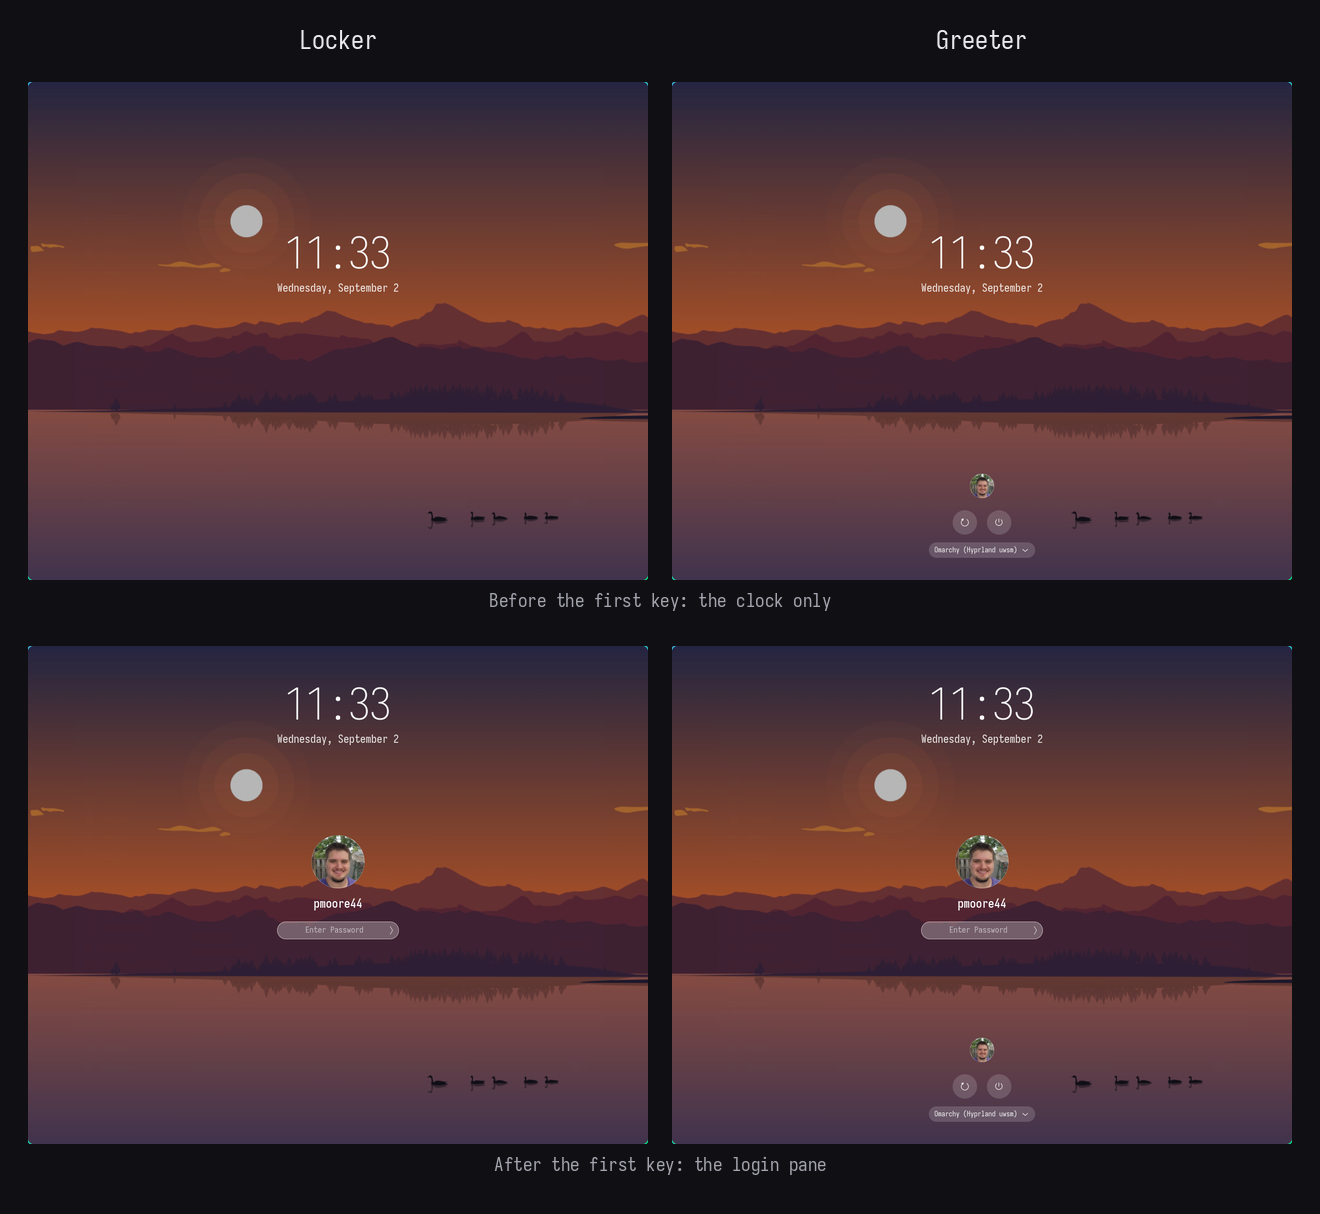
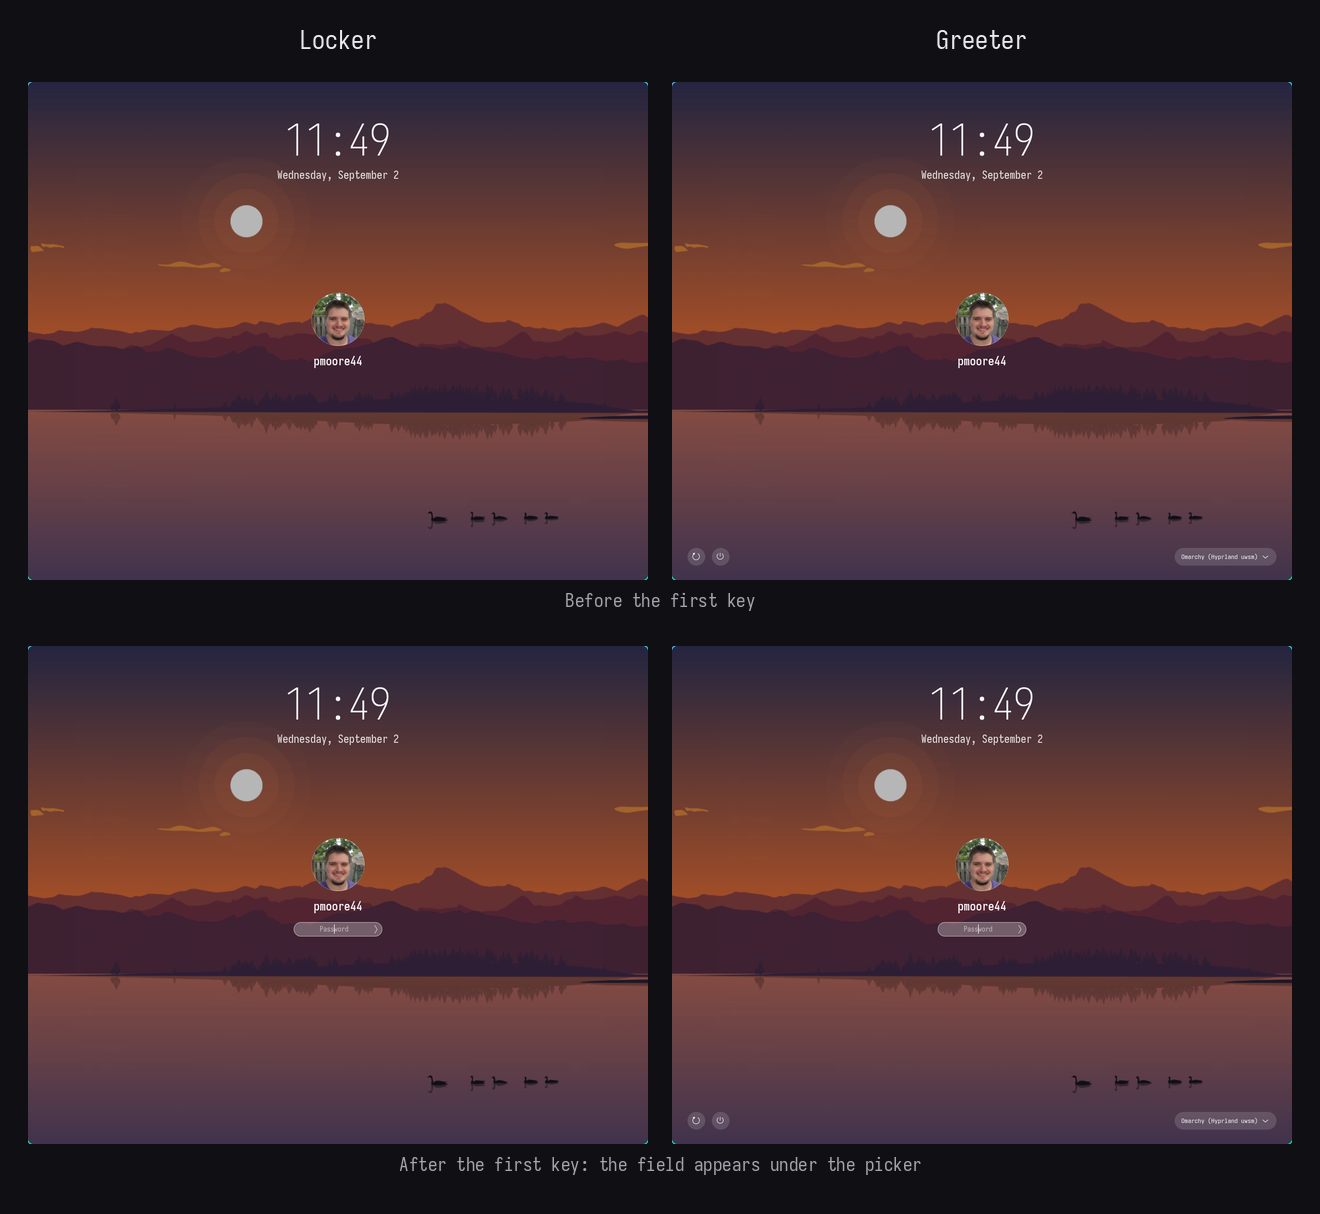
Move the pane to the macOS Sonoma layout
- The power buttons are 32 pixels now, and they sit at the bottom left. The
  session list sits at the bottom right, at the same height. A CenterBox
  holds the two ends.
- The password field is 116 pixels wide, about as wide as the avatar, and it
  reads Password.
- The field leaves the layout in the idle phase instead of turning
  transparent. The first key brings it back under the name, and the centre
  column then moves the picker up by half the height of the field.
- The picker stays on the screen in both phases, so the clock keeps its place
  at the top.
- A row of other users appears only when the computer has more than one.

docs/comparison.png shows the new layout in both phases.

Claude-Session: https://claude.ai/code/session_01PeT9ttCRnR2m712URu63QP

diff --git a/assets/style.css b/assets/style.css
@@ -26,11 +26,6 @@ popover {
  * the clock only, as macOS does. */
 .psldm-clock-column {
   margin-top: 56px;
-  transition: margin-top 340ms ease-out;
-}
-
-.psldm-clock-column.idle {
-  margin-top: 260px;
 }
 
 .psldm-clock {
@@ -40,14 +35,10 @@ popover {
   color: #ffffff;
 }
 
-/* The avatar, the name, and the field appear after the first key. */
+/* The picker stays on the screen. The field joins it after the first key,
+ * and the column then moves up a little. */
 .psldm-login {
   opacity: 1;
-  transition: opacity 240ms ease-out;
-}
-
-.psldm-login.idle {
-  opacity: 0;
 }
 
 .psldm-date {
@@ -74,19 +65,19 @@ popover {
 /* The capsule password field. The selector names the entry node as well as
  * the class, so that it wins over the theme. */
 entry.psldm-entry {
-  min-width: 200px;
-  min-height: 32px;
-  margin-top: 18px;
-  padding: 0 6px 0 14px;
+  min-width: 116px;
+  min-height: 26px;
+  margin-top: 14px;
+  padding: 0 4px 0 10px;
   border: none;
   outline: none;
-  border-radius: 16px;
+  border-radius: 13px;
   background-color: alpha(#ffffff, 0.20);
   background-image: none;
   box-shadow: inset 0 0 0 1px alpha(#ffffff, 0.30);
   color: #ffffff;
   caret-color: #ffffff;
-  font-size: 15px;
+  font-size: 13px;
 }
 
 entry.psldm-entry:focus,
@@ -124,11 +115,10 @@ entry.psldm-entry > image {
 
 /* The row of users, and the row of power buttons. */
 .psldm-users {
-  margin-bottom: 8px;
+  margin-top: 22px;
 }
 
-button.psldm-user-button,
-button.psldm-power-button {
+button.psldm-user-button {
   border: none;
   outline: none;
   border-radius: 22px;
@@ -141,25 +131,40 @@ button.psldm-power-button {
   color: #ffffff;
 }
 
+button.psldm-power-button {
+  border: none;
+  outline: none;
+  border-radius: 16px;
+  min-width: 32px;
+  min-height: 32px;
+  padding: 0;
+  background-color: alpha(#ffffff, 0.14);
+  background-image: none;
+  box-shadow: none;
+  color: #ffffff;
+  -gtk-icon-size: 15px;
+}
+
 button.psldm-user-button:hover,
 button.psldm-power-button:hover {
   background-color: alpha(#ffffff, 0.28);
 }
 
+/* The bottom bar: power on the left, sessions on the right. */
 .psldm-bottom {
-  margin-bottom: 40px;
+  margin: 0 28px 26px 28px;
 }
 
 dropdown.psldm-session > button {
-  background: alpha(#ffffff, 0.16);
+  background: alpha(#ffffff, 0.14);
   background-image: none;
   color: #ffffff;
-  border-radius: 14px;
+  border-radius: 16px;
   border: none;
   box-shadow: none;
-  min-height: 28px;
-  padding: 0 10px;
-  font-size: 13px;
+  min-height: 32px;
+  padding: 0 12px;
+  font-size: 12px;
 }
 
 /* The pane moves left and right one time after a failed attempt. */

diff --git a/crates/psldm-ui/src/pane.rs b/crates/psldm-ui/src/pane.rs
@@ -88,13 +88,20 @@ impl LoginPane {
         entry.set_input_purpose(gtk::InputPurpose::Password);
         entry.set_secondary_icon_name(Some("go-next-symbolic"));
         entry.set_secondary_icon_activatable(true);
-        entry.set_placeholder_text(Some("Enter Password"));
+        entry.set_placeholder_text(Some("Password"));
         gtk::prelude::EditableExt::set_alignment(&entry, 0.5);
         entry.set_max_width_chars(18);
 
         let hint = gtk::Label::new(None);
         hint.add_css_class("psldm-hint");
 
+        let users_row = gtk::Box::new(gtk::Orientation::Horizontal, 20);
+        users_row.set_halign(gtk::Align::Center);
+        users_row.add_css_class("psldm-users");
+
+        // The picker holds the avatar and the name. The field joins it when
+        // the user presses a key, and the whole column then moves up a
+        // little, because a centre box grows in both directions.
         let center = gtk::Box::new(gtk::Orientation::Vertical, 0);
         center.add_css_class("psldm-login");
         center.set_halign(gtk::Align::Center);
@@ -103,26 +110,23 @@ impl LoginPane {
         center.append(&name);
         center.append(&entry);
         center.append(&hint);
-
-        let users_row = gtk::Box::new(gtk::Orientation::Horizontal, 24);
-        users_row.set_halign(gtk::Align::Center);
-        users_row.add_css_class("psldm-users");
+        center.append(&users_row);
 
         let sessions = gtk::DropDown::from_strings(&[]);
         sessions.add_css_class("psldm-session");
+        sessions.set_valign(gtk::Align::Center);
 
-        let power_row = gtk::Box::new(gtk::Orientation::Horizontal, 18);
-        power_row.set_halign(gtk::Align::Center);
+        let power_row = gtk::Box::new(gtk::Orientation::Horizontal, 12);
         power_row.add_css_class("psldm-power-row");
+        power_row.set_valign(gtk::Align::Center);
 
-        sessions.set_halign(gtk::Align::Center);
-
-        let bottom = gtk::Box::new(gtk::Orientation::Vertical, 14);
+        // The bottom bar holds the power buttons on the left and the session
+        // list on the right, as macOS does.
+        let bottom = gtk::CenterBox::new();
         bottom.add_css_class("psldm-bottom");
         bottom.set_valign(gtk::Align::End);
-        bottom.append(&users_row);
-        bottom.append(&power_row);
-        bottom.append(&sessions);
+        bottom.set_start_widget(Some(&power_row));
+        bottom.set_end_widget(Some(&sessions));
 
         let column = gtk::CenterBox::new();
         column.set_orientation(gtk::Orientation::Vertical);
@@ -156,12 +160,15 @@ impl LoginPane {
         pane
     }
 
-    /// Show the clock only, or the whole pane.
+    /// Show the picker only, or the picker with the field.
     pub fn set_phase(&self, phase: Phase) {
         let idle = phase == Phase::Idle;
         set_css_class(&self.clock_column, "idle", idle);
         set_css_class(&self.center, "idle", idle);
-        self.center.set_can_target(!idle);
+
+        // The field leaves the layout, so the picker moves back down.
+        self.entry.set_visible(!idle);
+        self.hint.set_visible(!idle);
     }
 
     /// Show or hide the three parts that the mode owns.
@@ -237,7 +244,7 @@ impl LoginPane {
             Some(prompt) => {
                 let label = prompt.text.trim_end_matches([':', ' ']);
                 self.entry.set_placeholder_text(Some(if prompt.secret {
-                    "Enter Password"
+                    "Password"
                 } else {
                     label
                 }));
@@ -279,7 +286,10 @@ impl LoginPane {
     }
 
     /// Fill the user row. The locker keeps the row hidden.
+    ///
+    /// One user needs no row. The pane already shows that user.
     pub fn set_users(&self, users: &[UserInfo], on_select: impl Fn(&UserInfo) + Clone + 'static) {
+        self.users_row.set_visible(users.len() > 1);
         while let Some(child) = self.users_row.first_child() {
             self.users_row.remove(&child);
         }

diff --git a/README.md b/README.md
@@ -87,14 +87,20 @@ needs the full path, because it often runs with a short PATH.
 
 ## The screen
 
-The screen has two phases, as macOS has.
+The layout follows macOS Sonoma.
 
-- The clock only. The wallpaper is sharp, with a dark layer over it.
-- The clock at the top, with the avatar, the name, and the field. The first
-  key opens this phase, and the field does not receive that key.
+- The clock and the date sit at the top.
+- The avatar and the name sit in the middle.
+- The greeter puts two small power buttons at the bottom left, and the
+  session list at the bottom right.
+
+The screen has two phases. Before the first key it shows the picker only.
+The first key adds the password field under the name, and the picker moves up
+a little. That key does not reach the field.
 
 The screen returns to the first phase after 30 seconds without a key, but
-only while the field is empty.
+only while the field is empty. A row of other users appears above the bottom
+bar when the computer has more than one.
 
 ## How it works
 
